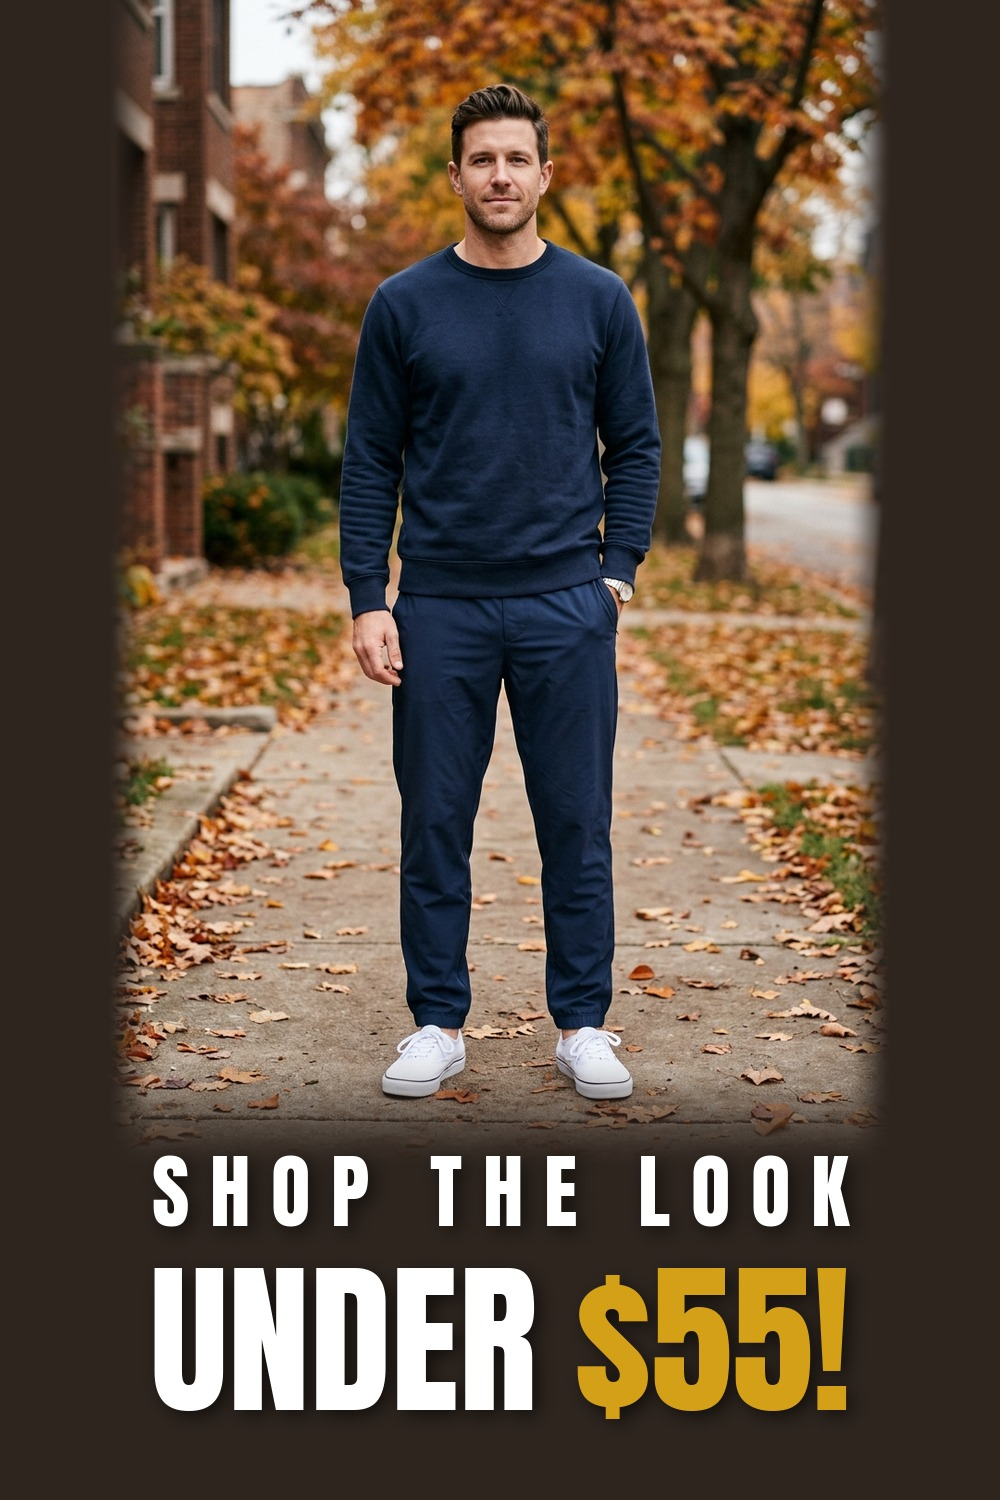
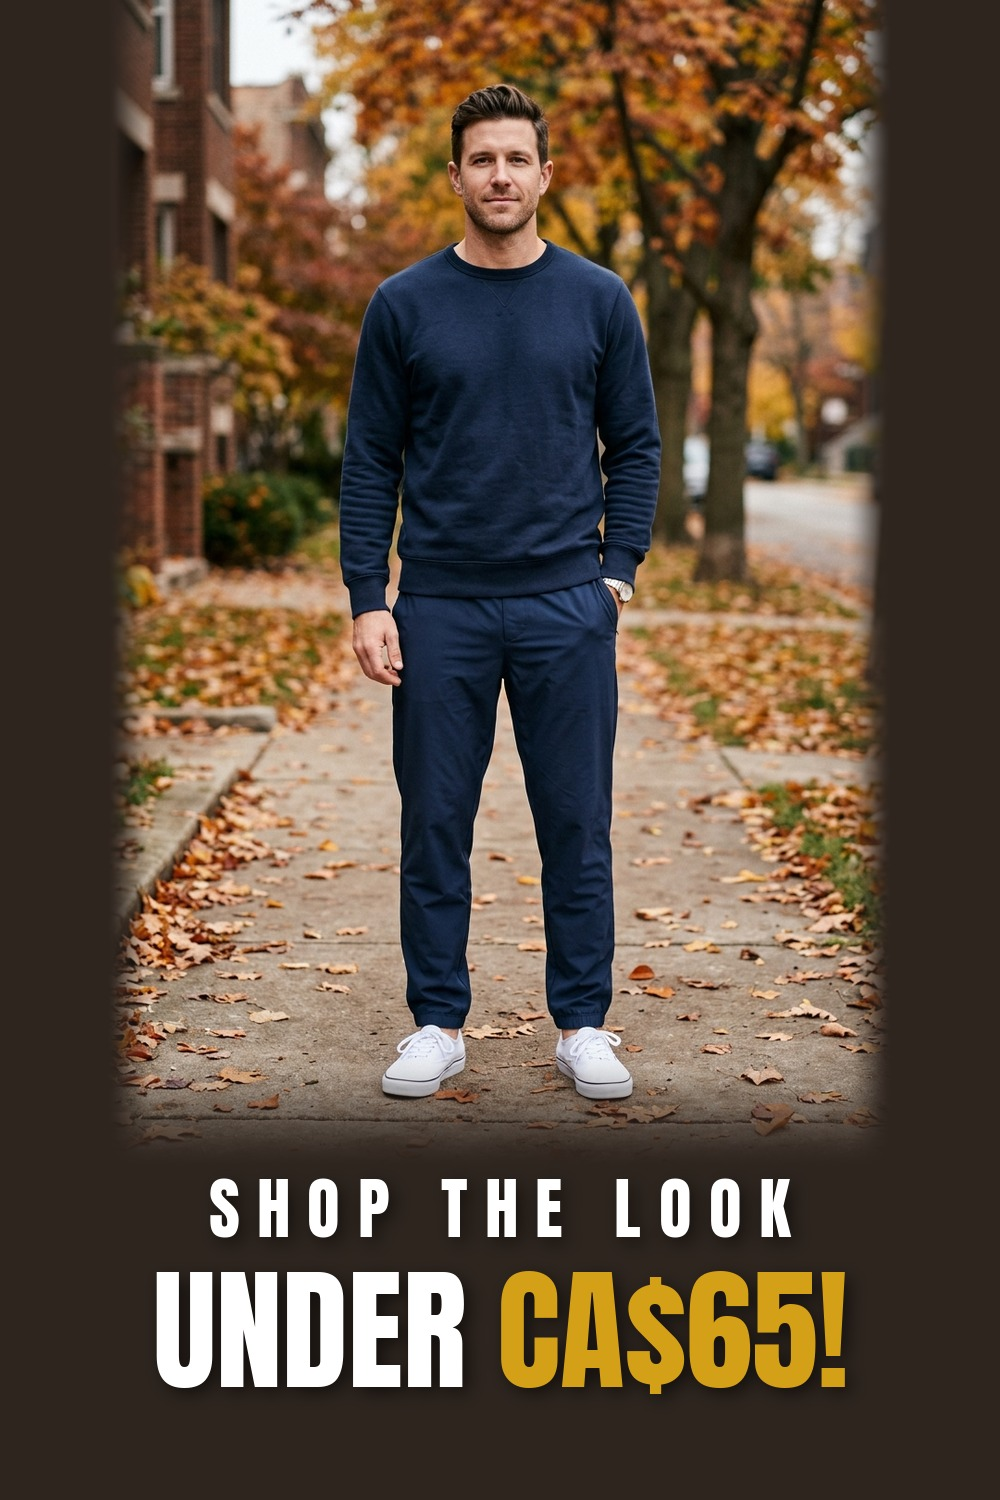
Nov 9 re-check prices, discount_percent, outfit totals and pins
- Nov 9 (size M): henley 15.78 -> 19.48, sweatpants 19.48 -> 18.22,
  sweater 22.08 unchanged; records, product pages, schema and cards
- discount_percent from the live pages (M/L price vs listed original):
  oct-19 sweatpants 25, sneakers null (inflated 209.94 original),
  nov-2 sweatshirt 20, pants null, nov-9 henley null, sweater null,
  sweatpants 20, nov-16 turtleneck 25, suede jacket 25,
  oct-12 beanie null, nov-23-2 hooded sweatshirt 20
- Outfit totals in og/twitter copy and budget page captions now the card
  sums: Nov 2 CA$60.71, Nov 9 CA$59.78 (size M), Nov 16 CA$57.09
- outfit-pin.jpg remade with --no-sale-line: Nov 2 UNDER CA$65,
  Nov 9 UNDER CA$60, Nov 16 UNDER CA$60

Changed region(s): [[0.155, 0.7667, 0.868, 0.9507]]

diff --git a/outfits/budget/budget-outfit-nov-9/index.html b/outfits/budget/budget-outfit-nov-9/index.html
@@ -159,14 +159,14 @@
 <meta name="viewport" content="width=device-width, initial-scale=1.0">
 <title>Budget Outfit • ThatFootball12</title>
 <meta property="og:title" content="Budget Outfit - November 9th, 2026" />
-<meta property="og:description" content="Burgundy henley under a dark grey crew neck sweater with black cuffed sweatpants — cozy fit under $60 for the top, layer and bottom (shoes not included). This image was created with AI and features AI-generated people." />
+<meta property="og:description" content="Burgundy henley under a dark grey crew neck sweater with black cuffed sweatpants — cozy fit for CA$59.78 in size M for the top, layer and bottom (shoes not included). This image was created with AI and features AI-generated people." />
 <meta property="og:image" content="https://thatfootball12.github.io/thatfootball12-links/outfits/budget/budget-outfit-nov-9/outfit-preview.jpg" />
 <meta property="og:url" content="https://thatfootball12.github.io/thatfootball12-links/outfits/budget/budget-outfit-nov-9/" />
 <meta property="og:type" content="article" />
 <meta property="og:site_name" content="ThatFootball12" />
 <meta name="twitter:card" content="summary_large_image" />
 <meta name="twitter:title" content="Budget Outfit - November 9th, 2026" />
-<meta name="twitter:description" content="Burgundy henley under a dark grey crew neck sweater with black cuffed sweatpants — cozy fit under $60 for the top, layer and bottom (shoes not included). This image was created with AI and features AI-generated people." />
+<meta name="twitter:description" content="Burgundy henley under a dark grey crew neck sweater with black cuffed sweatpants — cozy fit for CA$59.78 in size M for the top, layer and bottom (shoes not included). This image was created with AI and features AI-generated people." />
 <meta name="twitter:image" content="https://thatfootball12.github.io/thatfootball12-links/outfits/budget/budget-outfit-nov-9/outfit-preview.jpg" />
 <style>
   :root{--ink:#0D0D0D;--panel:#18140F;--gold:#D4A017;--crimson:#C8102E;--bone:#F3EFE6;--bone-dim:#B8B2A4;}
@@ -215,7 +215,7 @@
 
   <a class="card" href="henley/">
     <div class="card-title">Manfinity Dauomo Front Button Long Sleeve Henley</div>
-    <div class="card-price">CA$15.78</div>
+    <div class="card-price">CA$19.48</div>
   </a>
   <a class="card" href="sweater/">
     <div class="card-title">Manfinity Homme Crew Neck Sweater</div>
@@ -223,7 +223,7 @@
   </a>
   <a class="card" href="sweatpants/">
     <div class="card-title">Manfinity Homme Drawstring Waist Cuffed Sweatpants</div>
-    <div class="card-price">CA$19.48</div>
+    <div class="card-price">CA$18.22</div>
   </a>
 </div>
 <!-- site-footer:start -->

diff --git a/outfits/budget/index.html b/outfits/budget/index.html
@@ -372,21 +372,21 @@
         <picture><source type="image/webp" srcset="budget-outfit-nov-16/outfit-preview-424.webp"><img class="card-thumb" src="budget-outfit-nov-16/outfit-preview-424.jpg" alt="Budget Outfit - November 16th, 2026. This image was created with AI and features AI-generated people." loading="eager" decoding="async"></picture>
         <div class="card-body">
           <div class="card-date">Nov 16th, 2026</div>
-          <div class="card-caption">Faux suede baseball jacket, dark brown slim fit turtleneck and light grey warm-lined joggers — the clothes come in under CA$60 before shoes.</div>
+          <div class="card-caption">Faux suede baseball jacket, dark brown slim fit turtleneck and light grey warm-lined joggers — the clothes come to CA$57.09 before shoes.</div>
         </div>
       </a>
       <a class="card-tile" href="budget-outfit-nov-9/">
         <picture><source type="image/webp" srcset="budget-outfit-nov-9/outfit-preview-424.webp"><img class="card-thumb" src="budget-outfit-nov-9/outfit-preview-424.jpg" alt="Budget Outfit - November 9th, 2026. This image was created with AI and features AI-generated people." loading="eager" decoding="async"></picture>
         <div class="card-body">
           <div class="card-date">Nov 9th, 2026</div>
-          <div class="card-caption">Burgundy henley under a dark grey crew neck sweater with black cuffed sweatpants — cozy fit under $60 for the top, layer and bottom (shoes not included).</div>
+          <div class="card-caption">Burgundy henley under a dark grey crew neck sweater with black cuffed sweatpants — cozy fit for CA$59.78 in size M for the top, layer and bottom (shoes not included).</div>
         </div>
       </a>
       <a class="card-tile" href="budget-outfit-nov-2/">
         <picture><source type="image/webp" srcset="budget-outfit-nov-2/outfit-preview-424.webp"><img class="card-thumb" src="budget-outfit-nov-2/outfit-preview-424.jpg" alt="Budget Outfit - November 2nd, 2026. This image was created with AI and features AI-generated people." loading="eager" decoding="async"></picture>
         <div class="card-body">
           <div class="card-date">Nov 2nd, 2026</div>
-          <div class="card-caption">Navy crew neck sweatshirt, navy lightweight pants, and white skate shoes — a full outfit under CA$60.</div>
+          <div class="card-caption">Navy crew neck sweatshirt, navy lightweight pants, and white skate shoes — a full outfit for CA$60.71.</div>
         </div>
       </a>
       <a class="card-tile" href="budget-outfit-oct-19/">

diff --git a/outfits/budget/budget-outfit-nov-16/index.html b/outfits/budget/budget-outfit-nov-16/index.html
@@ -159,14 +159,14 @@
 <meta name="viewport" content="width=device-width, initial-scale=1.0">
 <title>Budget Outfit • ThatFootball12</title>
 <meta property="og:title" content="Budget Outfit - November 16th, 2026" />
-<meta property="og:description" content="Faux suede baseball jacket, dark brown slim fit turtleneck and light grey warm-lined joggers — the clothes come in under CA$60 before shoes. This image was created with AI and features AI-generated people." />
+<meta property="og:description" content="Faux suede baseball jacket, dark brown slim fit turtleneck and light grey warm-lined joggers — the clothes come to CA$57.09 before shoes. This image was created with AI and features AI-generated people." />
 <meta property="og:image" content="https://thatfootball12.github.io/thatfootball12-links/outfits/budget/budget-outfit-nov-16/outfit-preview.jpg" />
 <meta property="og:url" content="https://thatfootball12.github.io/thatfootball12-links/outfits/budget/budget-outfit-nov-16/" />
 <meta property="og:type" content="article" />
 <meta property="og:site_name" content="ThatFootball12" />
 <meta name="twitter:card" content="summary_large_image" />
 <meta name="twitter:title" content="Budget Outfit - November 16th, 2026" />
-<meta name="twitter:description" content="Faux suede baseball jacket, dark brown slim fit turtleneck and light grey warm-lined joggers — the clothes come in under CA$60 before shoes. This image was created with AI and features AI-generated people." />
+<meta name="twitter:description" content="Faux suede baseball jacket, dark brown slim fit turtleneck and light grey warm-lined joggers — the clothes come to CA$57.09 before shoes. This image was created with AI and features AI-generated people." />
 <meta name="twitter:image" content="https://thatfootball12.github.io/thatfootball12-links/outfits/budget/budget-outfit-nov-16/outfit-preview.jpg" />
 <style>
   :root{--ink:#0D0D0D;--panel:#18140F;--gold:#D4A017;--crimson:#C8102E;--bone:#F3EFE6;--bone-dim:#B8B2A4;}

diff --git a/outfits/budget/budget-outfit-nov-2/index.html b/outfits/budget/budget-outfit-nov-2/index.html
@@ -159,14 +159,14 @@
 <meta name="viewport" content="width=device-width, initial-scale=1.0">
 <title>Budget Outfit • ThatFootball12</title>
 <meta property="og:title" content="Budget Outfit - November 2nd, 2026" />
-<meta property="og:description" content="Navy crew neck sweatshirt, navy lightweight pants, and white skate shoes — a full outfit under CA$60. This image was created with AI and features AI-generated people." />
+<meta property="og:description" content="Navy crew neck sweatshirt, navy lightweight pants, and white skate shoes — a full outfit for CA$60.71. This image was created with AI and features AI-generated people." />
 <meta property="og:image" content="https://thatfootball12.github.io/thatfootball12-links/outfits/budget/budget-outfit-nov-2/outfit-preview.jpg" />
 <meta property="og:url" content="https://thatfootball12.github.io/thatfootball12-links/outfits/budget/budget-outfit-nov-2/" />
 <meta property="og:type" content="article" />
 <meta property="og:site_name" content="ThatFootball12" />
 <meta name="twitter:card" content="summary_large_image" />
 <meta name="twitter:title" content="Budget Outfit - November 2nd, 2026" />
-<meta name="twitter:description" content="Navy crew neck sweatshirt, navy lightweight pants, and white skate shoes — a full outfit under CA$60. This image was created with AI and features AI-generated people." />
+<meta name="twitter:description" content="Navy crew neck sweatshirt, navy lightweight pants, and white skate shoes — a full outfit for CA$60.71. This image was created with AI and features AI-generated people." />
 <meta name="twitter:image" content="https://thatfootball12.github.io/thatfootball12-links/outfits/budget/budget-outfit-nov-2/outfit-preview.jpg" />
 <!-- fonts:start -->
 <link rel="preload" href="../../../assets/fonts/web/anton-400-latin.woff2" as="font" type="font/woff2" crossorigin>

diff --git a/outfits/budget/budget-outfit-nov-9/sweatpants/index.html b/outfits/budget/budget-outfit-nov-9/sweatpants/index.html
@@ -145,7 +145,7 @@
 </style>
 <script>
 (function () {
-  var P = {"retailer": "SHEIN", "product_id": "budget/budget-outfit-nov-9/sweatpants", "product_name": "Manfinity Homme Drawstring Waist Cuffed Sweatpants", "value": 19.48, "currency": "CAD"}, C = null, SEL = "a.shop";
+  var P = {"retailer": "SHEIN", "product_id": "budget/budget-outfit-nov-9/sweatpants", "product_name": "Manfinity Homme Drawstring Waist Cuffed Sweatpants", "value": 18.22, "currency": "CAD"}, C = null, SEL = "a.shop";
   var SKIP = /(^|\.)(tiktok\.com|instagram\.com|pin\.it|pinterest\.[a-z.]+)$/;
   function retailer(host) {
     if (/(^|\.)amazon\.|(^|\.)amzn\.to$/.test(host)) return 'Amazon';
@@ -247,7 +247,7 @@
   "url": "https://thatfootball12.github.io/thatfootball12-links/outfits/budget/budget-outfit-nov-9/sweatpants/",
   "offers": {
     "@type": "Offer",
-    "price": "19.48",
+    "price": "18.22",
     "priceCurrency": "CAD",
     "availability": "https://schema.org/InStock",
     "url": "https://onelink.shein.com/59/67029tgwhnaq?ismg_ol=B0544nX7dAD_01_KOC-C"
@@ -261,7 +261,7 @@
   <img src="sweatpants.jpg" alt="Manfinity Homme Drawstring Waist Cuffed Sweatpants" width="900" height="1199" loading="eager" decoding="async">
   <img src="sweatpants-2.jpg" alt="Manfinity Homme Drawstring Waist Cuffed Sweatpants, second view" width="900" height="1199" loading="lazy" decoding="async">
   <h1>Manfinity Homme Drawstring Waist Cuffed Sweatpants</h1>
-  <div class="price">CA$19.48</div>
+  <div class="price">CA$18.22</div>
   <div class="currency-note">Prices shown in CAD</div>
   <p>Black cuffed sweatpants with a drawstring waist. Comfortable joggers for a cozy fit.</p>
   <a class="shop" href="https://onelink.shein.com/59/67029tgwhnaq?ismg_ol=B0544nX7dAD_01_KOC-C" target="_blank" rel="noopener">Shop Now</a>

diff --git a/outfits/budget/budget-outfit-nov-9/henley/index.html b/outfits/budget/budget-outfit-nov-9/henley/index.html
@@ -145,7 +145,7 @@
 </style>
 <script>
 (function () {
-  var P = {"retailer": "SHEIN", "product_id": "budget/budget-outfit-nov-9/henley", "product_name": "Manfinity Dauomo Front Button Long Sleeve Henley", "value": 15.78, "currency": "CAD"}, C = null, SEL = "a.shop";
+  var P = {"retailer": "SHEIN", "product_id": "budget/budget-outfit-nov-9/henley", "product_name": "Manfinity Dauomo Front Button Long Sleeve Henley", "value": 19.48, "currency": "CAD"}, C = null, SEL = "a.shop";
   var SKIP = /(^|\.)(tiktok\.com|instagram\.com|pin\.it|pinterest\.[a-z.]+)$/;
   function retailer(host) {
     if (/(^|\.)amazon\.|(^|\.)amzn\.to$/.test(host)) return 'Amazon';
@@ -247,7 +247,7 @@
   "url": "https://thatfootball12.github.io/thatfootball12-links/outfits/budget/budget-outfit-nov-9/henley/",
   "offers": {
     "@type": "Offer",
-    "price": "15.78",
+    "price": "19.48",
     "priceCurrency": "CAD",
     "availability": "https://schema.org/InStock",
     "url": "https://onelink.shein.com/59/66zcj2nakig8?ismg_ol=CcKsM6c800i_01_KOC-C"
@@ -261,7 +261,7 @@
   <img src="henley.jpg" alt="Manfinity Dauomo Front Button Long Sleeve Henley" width="900" height="1199" loading="eager" decoding="async">
   <img src="henley-2.jpg" alt="Manfinity Dauomo Front Button Long Sleeve Henley, second view" width="900" height="1199" loading="lazy" decoding="async">
   <h1>Manfinity Dauomo Front Button Long Sleeve Henley</h1>
-  <div class="price">CA$15.78</div>
+  <div class="price">CA$19.48</div>
   <div class="currency-note">Prices shown in CAD</div>
   <p>A burgundy long sleeve henley with a button front. Layers under a crew neck sweater.</p>
   <a class="shop" href="https://onelink.shein.com/59/66zcj2nakig8?ismg_ol=CcKsM6c800i_01_KOC-C" target="_blank" rel="noopener">Shop Now</a>
